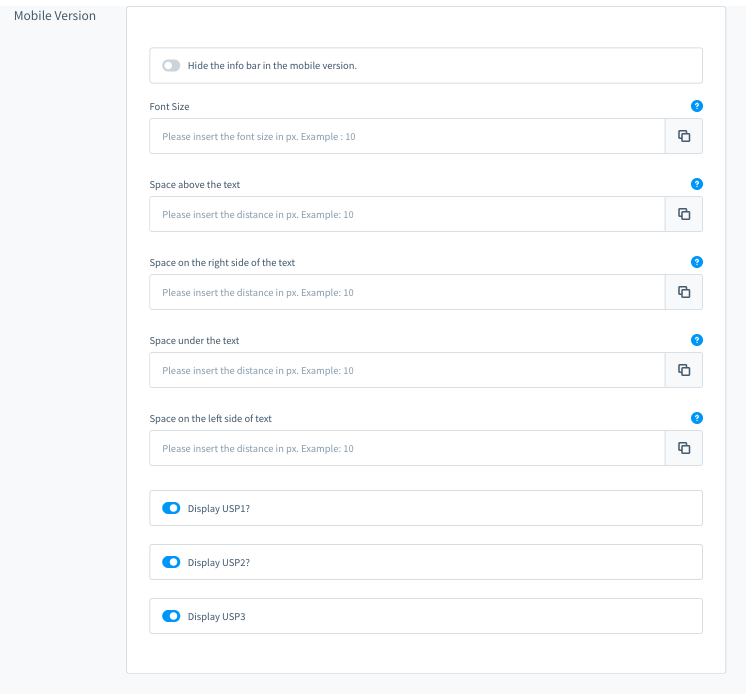
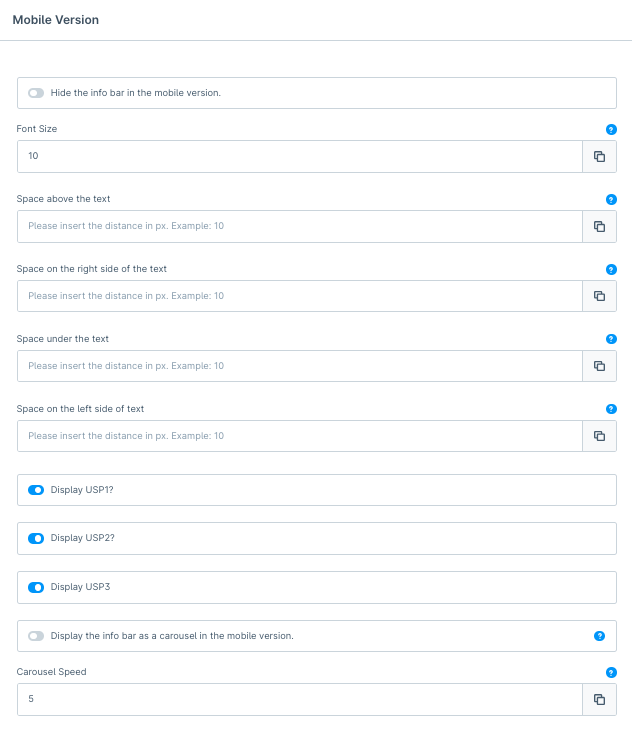
SPS-310 Added new option: 'Display the info bar as a carousel in the mobile version.'

diff --git a/Readme.md b/Readme.md
@@ -5,11 +5,12 @@
 | 1.0.0   | First release                                                                         | Shopware Store         |
 | 1.1.0   | Support for Shopware 6.2                                                                      | Shopware Store         |
 | 1.2.0   | Bugfix that can cause icons to not be shown<br>Shopware 6.3 compatibility                   | Shopware Store         |
-| 1.3.0   | new option 'open in new tab'<br>Bugfix: sales channel specific settings                   | Shopware Store         |
+| 1.3.0   | New option 'open in new tab'<br>Bugfix: sales channel specific settings                   | Shopware Store         |
 | 1.4.0   | Added snippet key support to the text and the link of the USPs                         | Github         |
 | 1.5.0   | Moved icon selection to top of the configuration                          | Github         |
 | 1.6.0   | Bugfix: Empty <span> element exists, when no icon is selected.<br>Added a new css class.                          | Github         |
 | 2.0.0     | Changed to Shopware v6.5                               | Github         |
+| 2.1.0     | New option: 'Display the info bar as a carousel in the mobile version.'  | Github         |
 
 > **Warning**\
 > Version 2.0.0 is no longer compatible with Shopware 6.4 or below!

diff --git a/CHANGELOG.md b/CHANGELOG.md
@@ -1,3 +1,6 @@
+# v2.1.0
+- Neue Option 'In der mobilen Version die Info-Leiste als Karussell darstellen.'
+
 # v2.0.0
 - Update auf Shopware v6.5
 

diff --git a/CHANGELOG_en-GB.md b/CHANGELOG_en-GB.md
@@ -1,3 +1,6 @@
+# v2.1.0
+- New option 'Display the info bar as a carousel in the mobile version.'
+
 # v2.0.0
 - Changed to Shopware v6.5
 
